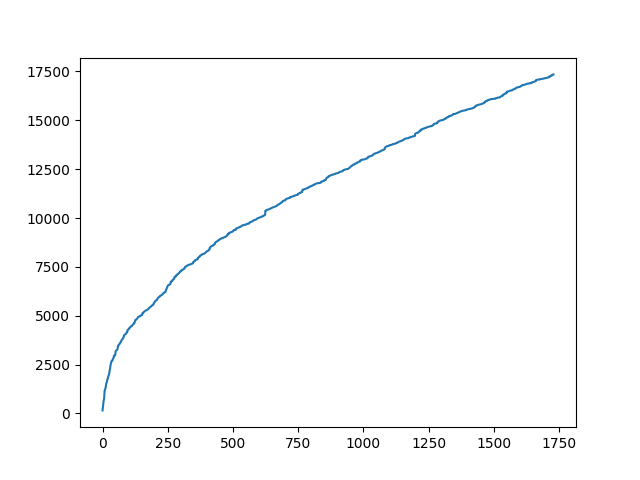
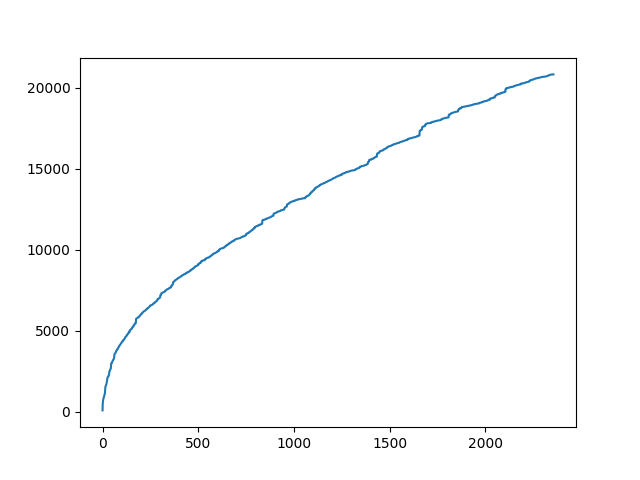
add pandas

diff --git a/Backend/utils/import_utils.py b/Backend/utils/import_utils.py
@@ -4,12 +4,17 @@ import xlrd
 import csv
 import sys
 
+import pandas as pd
+
 DATA_LOC = "data/news.xlsx"
 # DATA_LOC = "data/news_14.csv"
 
-
 def remove_tags(news_model):
+    if not news_model.content:
+        return None
     news_model.content = BeautifulSoup(news_model.content, 'lxml').text
+    if not news_model.content:
+        return None
     return news_model
 
 
@@ -32,4 +37,14 @@ def load_corpus(loc=DATA_LOC, flag="xls"):
                 del item[7]
                 del item[4]
         return news
+
+    elif flag == "csv":
+        df = pd.read_csv(loc, error_bad_lines=False, engine="python", encoding="utf-8")
+
+        del df['source_url']
+        del df['category']
+        del df['subcategory']
+
+        return df
+
 

diff --git a/Backend/backend_main.py b/Backend/backend_main.py
@@ -123,13 +123,16 @@ def highlight_phrases_in_content(content, query_phrases):
 
 
 print("reading from corpus...")
-corpus = import_utils.load_corpus(flag="xls")
+# corpus = import_utils.load_corpus(flag="xls")
+corpus = import_utils.load_corpus(loc="data/csv/ir-news-0-2.csv", flag="csv")
 
 print("indexing...")
 mdls = news_model.create_models_list_from_news(corpus)
 mdls_with_tags = copy.deepcopy(mdls)
-for model in mdls:
-    import_utils.remove_tags(model)
+
+print("before:", len(mdls))
+mdls = [model for model in mdls if import_utils.remove_tags(model) is not None]
+print("after:", len(mdls))
 
 ind = nindexer.Indexer()
 ind.feed(mdls)

diff --git a/Backend/models/news_model.py b/Backend/models/news_model.py
@@ -1,5 +1,6 @@
 def create_models_list_from_news(news):
-    return [NewsModel(*args) for args in news]
+    return [NewsModel(args['publish_date'], args['title'], args['url'], args['summary'],
+                      args['meta_tags'], args['content'], args['thumbnail']) for index, args in news.iterrows()]
 
 
 class NewsModel:
